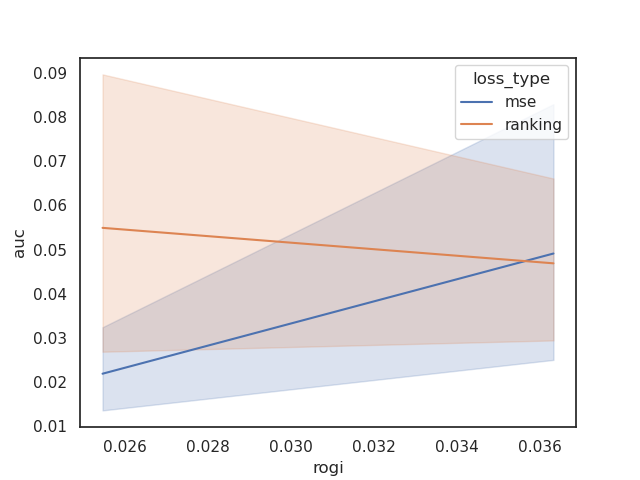
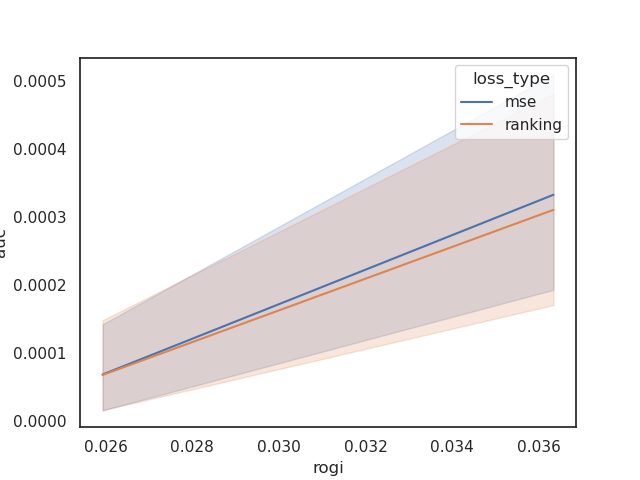
ROGI analysis with fixed auc

diff --git a/sandbox/roughness_plot.py b/sandbox/roughness_plot.py
@@ -8,18 +8,21 @@ import seaborn as sns
 sns.set_theme(style="white")
 import matplotlib.pyplot as plt
 
-from rbbo.metrics import frac_top_n, top_one, custom_auc
+from rbbo.metrics import frac_top_n, top_one, auc_metric
 
 if __name__ == "__main__":
     # input parameters
     goal = 'minimize'
     top_n = 20
     rough_dict = {"dataset": [], "loss_type": [], "auc": [], "rogi": [], }
-    for dataset_name in ['CHEMBL2971_Ki_min_ROGI', 'CHEMBL4616_EC50_max_ROGI']:
+
+    for dataset_name in ['lipo', 'CHEMBL2971_Ki_min_ROGI', 'CHEMBL4616_EC50_max_ROGI']:
         dataset_path = f'../data/{dataset_name}.csv'
         dataset: pd.DataFrame = pd.read_csv(dataset_path)
+
         ri = RoughnessIndex(Y=dataset["target"], smiles=dataset["smiles"])
         rogi_score = ri.compute_index()
+        import pdb; pdb.set_trace()
 
         for loss in ["mse", "ranking"]:
             result_path = f'{dataset_name}_minimize/results_{loss}_{dataset_name}_minimize.pkl'
@@ -30,7 +33,13 @@ if __name__ == "__main__":
                 df['loss_type'] = loss
                 df = frac_top_n(dataset, df, top_n, goal)
                 df = top_one(df, goal)
-                auc = custom_auc(df, "top_one")
+                auc = auc_metric(
+                    dataset, 
+                    bo_output = df, 
+                    metric = "top_one", 
+                    goal = goal, 
+                    outliers = 3.0
+                )
                 auc_list.append(auc)
 
                 rough_dict["dataset"].append(dataset_name)
